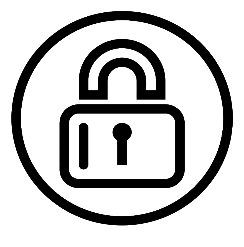
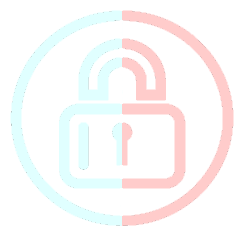
Finalize styling caesar cipher page

Changed region(s): [[0.2295, 0.1417, 0.7746, 0.7652], [0.0287, 0.0283, 0.9754, 0.9352]]

diff --git a/angular-frontend/src/app/encrypt/encrypt.component.html b/angular-frontend/src/app/encrypt/encrypt.component.html
@@ -1,6 +1,10 @@
+<h1 *ngIf="error" class="error title small column">
+    Please enter a word to be encrypted!
+</h1>
+
 <form [formGroup]="inputString" (ngSubmit)="onSubmit(inputString.value)" class="cipher-form">
     <input class="cipher-input" id="inputString" formControlName="inputString" type="search"
-        placeholder="Enter a word to encrypt...">
+        placeholder="Enter a word to be encrypted...">
 
     <div class="cipher-container">
         <label for="offset" class="form-label">
@@ -9,14 +13,14 @@
 
         <input class="cipher-input small-input" id="offset" formControlName="offset" value="0" type="number">
         <button class="cipher-button">
-            <img class="logo" src="../assets/caesar-cipher-icon.png" alt="icon">
+            <img class="logo" src="../assets/caesar-cipher-icon-alt.png" alt="icon">
         </button>
     </div>
 </form>
 
 <h1 class="title medium column" *ngIf="encryption">
-    Your encrypted word is: 
-    <h2>{{ encryption.encryptedString }}</h2>
+    Your encrypted word is:
+    <h2 class="encrypted">{{ encryption.encryptedString }}</h2>
 </h1>
 
 <app-queries [query]="encryption"></app-queries>

diff --git a/angular-frontend/src/app/encrypt/encrypt.component.ts b/angular-frontend/src/app/encrypt/encrypt.component.ts
@@ -10,6 +10,7 @@ import { CipherService } from '../cipher.service';
 export class EncryptComponent implements OnInit {
   inputString;
   encryption;
+  error: boolean;
 
   constructor(
     private formBuilder: FormBuilder,
@@ -19,6 +20,7 @@ export class EncryptComponent implements OnInit {
       inputString: '',
       offset: 0
     });
+    this.error = false;
   }
 
   ngOnInit() {}
@@ -29,8 +31,13 @@ export class EncryptComponent implements OnInit {
       offset: input.offset
     };
 
-    this.cipher.encryptString(body).subscribe(res => {
-      this.encryption = res;
-    })
+    if(input.inputString) {
+      this.error = false;
+      this.cipher.encryptString(body).subscribe(res => {
+        this.encryption = res;
+      });
+    } else {
+      this.error = true;
+    }
   }
 }

diff --git a/angular-frontend/src/styles.scss b/angular-frontend/src/styles.scss
@@ -3,12 +3,17 @@
 @import './reset.scss';
 
 body {
+    background: linear-gradient(rgba(0,0,0,.4),rgba(0,0,0,.4)), url('./assets/encryption-background.jpg');
+    background-repeat: no-repeat;
+    background-size: cover;
     background-color: #e0ffff;
+    background-attachment: fixed;
     height: 100vh;
+    color: #e0ffff;
 }
 
 app-root {
-    height: 100%;
+    height: 90%;
     position: absolute;
     display: flex;
     flex-direction: column;
@@ -24,6 +29,7 @@ app-root {
     font-size: 80px;
     font-family: 'Teko', sans-serif;
     letter-spacing: 2px;
+    text-align: center;
 }
 
 .column {
@@ -48,4 +54,12 @@ app-root {
 
 .underline {
     text-decoration: underline;
+}
+
+.error {
+    color: red;
+}
+
+.encrypted {
+    color: #ffcccb;
 }

diff --git a/angular-frontend/src/app/encrypt/encrypt.component.scss b/angular-frontend/src/app/encrypt/encrypt.component.scss
@@ -5,15 +5,22 @@
     align-items: center;
     width: 700px;
     height: 150px;
-    margin-top: 30px;
 }
 
 .cipher-input {
     width: 100%;
     height: 50px;
+    border: 1px solid black;
+    border-radius: 10px;
     font-size: 26px;
     font-family: 'Lato', sans-serif;
     padding-left: 10px;
+}
+
+.cipher-input:focus {
+    outline: none;
+    border: none;
+    box-shadow: 0 0 0 1.5pt #e0ffff;
 }
 
 .small-input {
@@ -36,9 +43,9 @@
 }
 
 .cipher-button {
-    cursor: pointer;
     width: 30%;
     height: 50px;
+    cursor: pointer;
 }
 
 .cipher-button > .logo {

diff --git a/angular-frontend/src/app/queries/queries.component.html b/angular-frontend/src/app/queries/queries.component.html
@@ -1,10 +1,10 @@
-<h1 class="title column medium">Previous Queries:</h1>
+<h1 class="title column medium">Previous Encryptions:</h1>
 
 <section class="queries">
     <div class="query">
         <i class="word small underline">Original Word</i>
         <i class="fa fa-arrow-right" aria-hidden="true"></i>
-        <i class="word small underline">Encrypted Word</i>
+        <i class="word small underline encrypted">Encrypted Word</i>
     </div>
 
     <app-query *ngFor="let query of queries" [query]="query"></app-query>

diff --git a/angular-frontend/src/app/queries/queries.component.scss b/angular-frontend/src/app/queries/queries.component.scss
@@ -1,7 +1,7 @@
 @import '../query/query.component.scss';
 
 h1 {
-    margin-bottom: 10px;
+    margin: 20px;
 }
 
 .queries {
@@ -9,7 +9,7 @@ h1 {
     display: flex;
     flex-direction: column;
     justify-content: center;
-    padding: 10px;
-    border: 3px solid black;
-    border-radius: 15px;
+    padding: 15px 0;
+    margin-bottom: 20px;
+    box-sizing: border-box;
 }

diff --git a/angular-frontend/src/app/query/query.component.html b/angular-frontend/src/app/query/query.component.html
@@ -1,5 +1,5 @@
 <div class="query">
     <i class="word small">{{ query.originalString }}</i>
     <i class="fa fa-arrow-right" aria-hidden="true"></i>
-    <i class="word small">{{ query.encryptedString }}</i>
+    <i class="word small encrypted">{{ query.encryptedString }}</i>
 </div>

diff --git a/angular-frontend/src/app/app.component.html b/angular-frontend/src/app/app.component.html
@@ -1,7 +1,6 @@
-<h1 class="title">
-    Ceasar
+<h1 class="title main">Ceasar
     <img class="logo" src="../assets/caesar-cipher-icon.png" alt="icon">
-    Cipher
+    <i class="encrypted">Cipher</i>
 </h1>
 
 <router-outlet></router-outlet>

diff --git a/angular-frontend/src/app/app.component.scss b/angular-frontend/src/app/app.component.scss
@@ -1,3 +1,7 @@
+.main {
+    margin-bottom: 30px;
+}
+
 .logo {
     width: 125px;
     margin: 0 25px;
